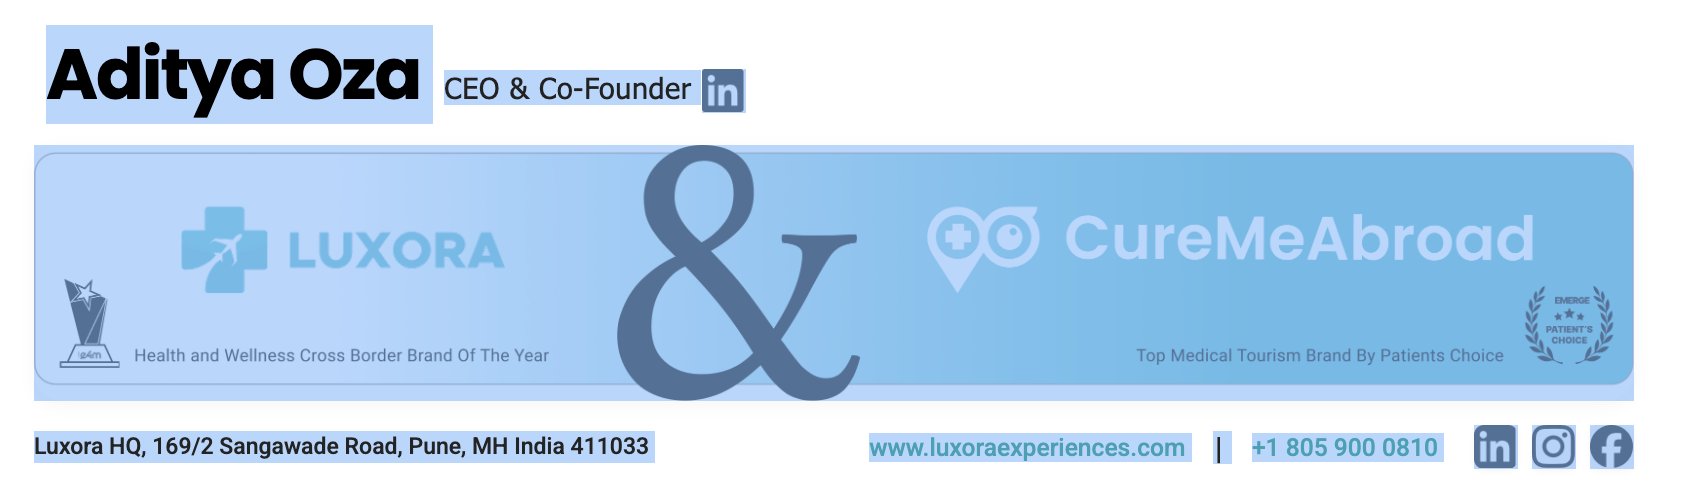
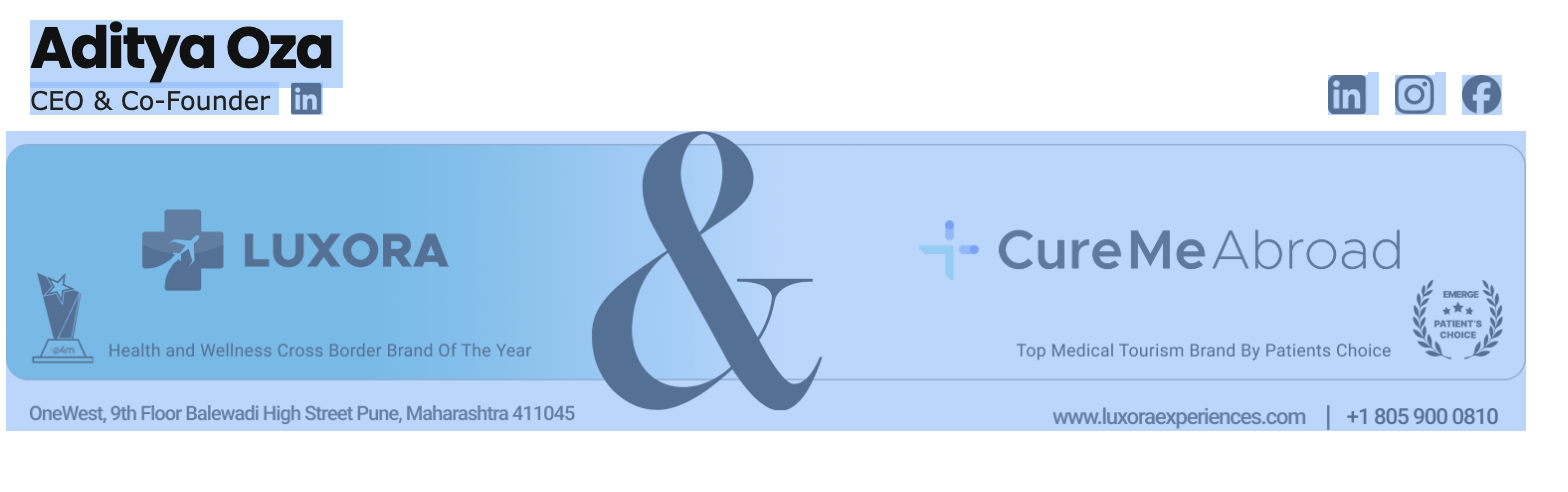
added new one

diff --git a/index.html b/index.html
@@ -200,7 +200,7 @@
                 #email-top-table .email-right-content { margin:0 auto!important; text-align:center!important;}
               }</style>
               <a href="https://luxoraexperiences.com/" target="_blank">
-                <img src="https://luxora-cms.s3.ap-south-1.amazonaws.com/luxora-media/banner.png" alt="Luxora & CureMeAbroad Banner" style="width:100%;max-width:100%;display:block;margin:0;padding:0;border:none;vertical-align:bottom;object-fit:cover;">
+                <img src="https://luxora-cms.s3.ap-south-1.amazonaws.com/luxora-media/newbanner.png" alt="Luxora & CureMeAbroad Banner" style="width:100%;max-width:100%;display:block;margin:0;padding:0;border:none;vertical-align:bottom;object-fit:cover;">
               </a>
               <!-- Address and links/contact row removed! -->
             </td>
